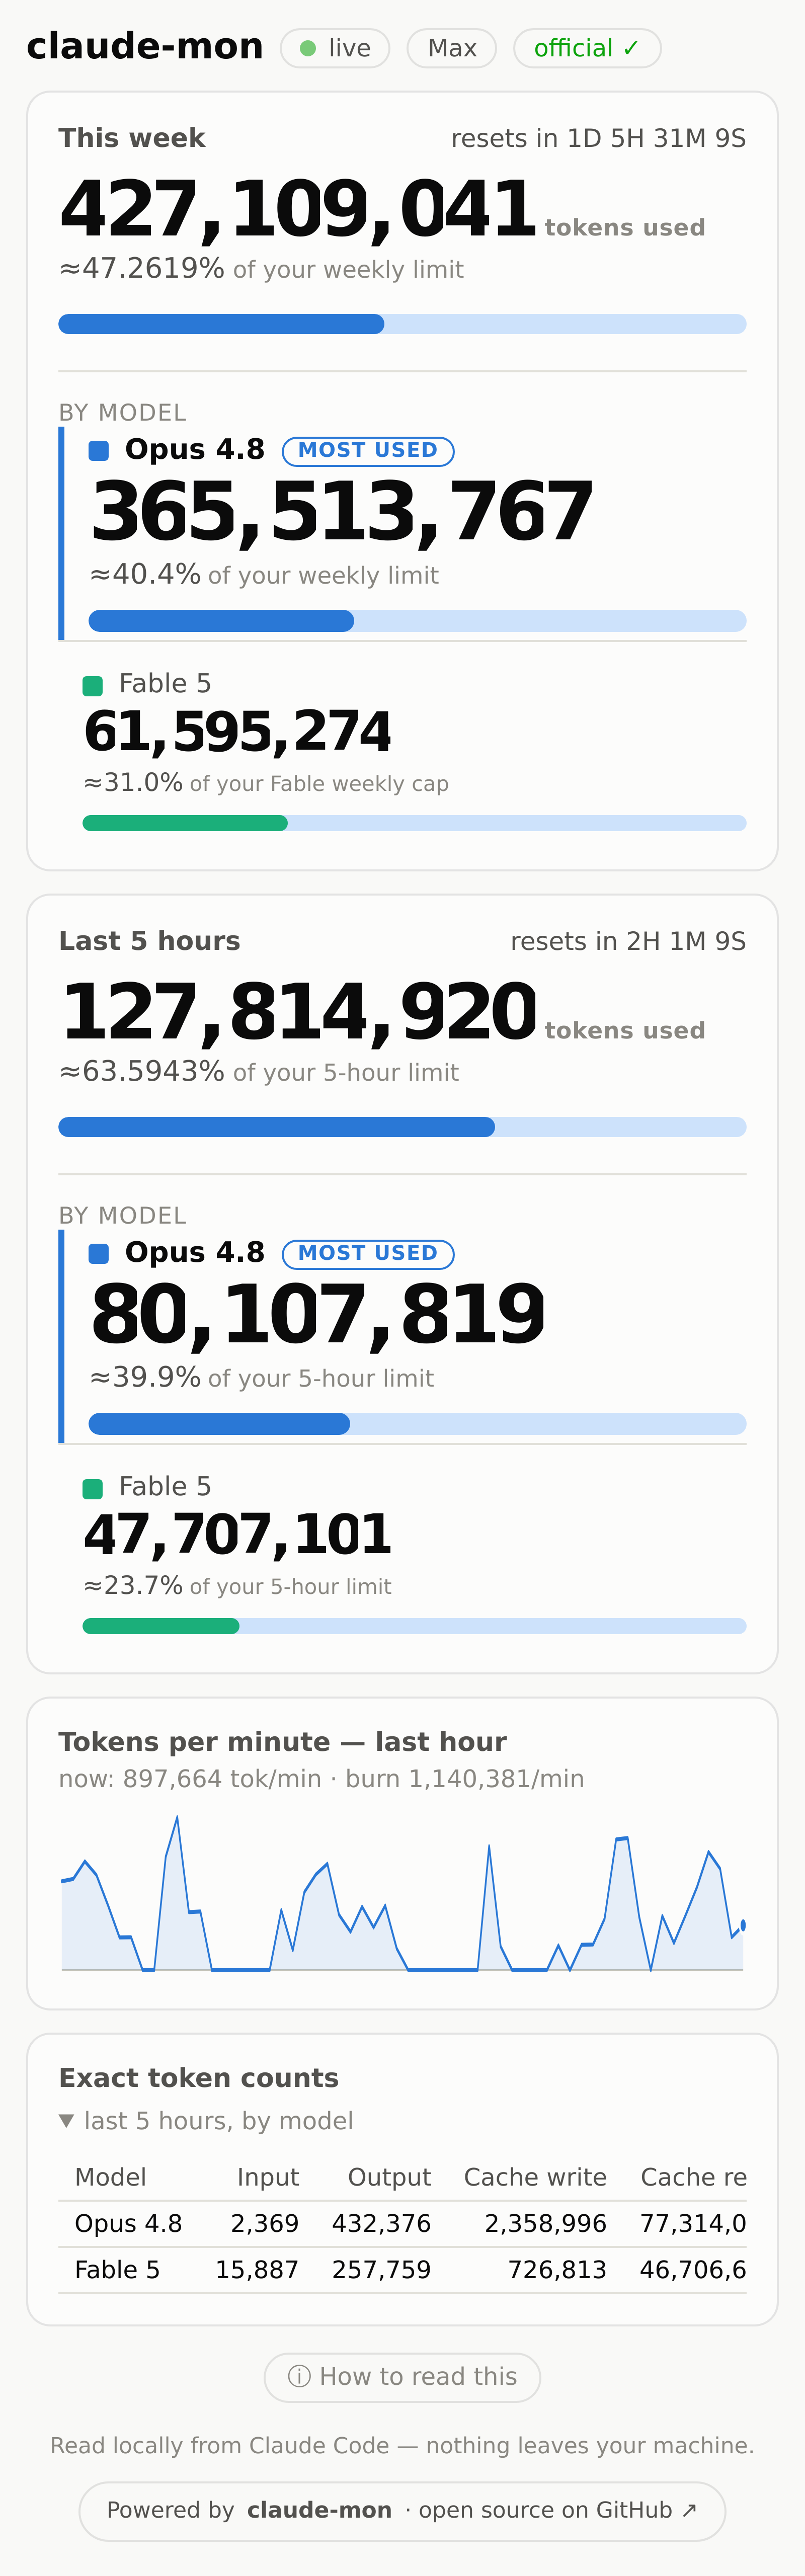
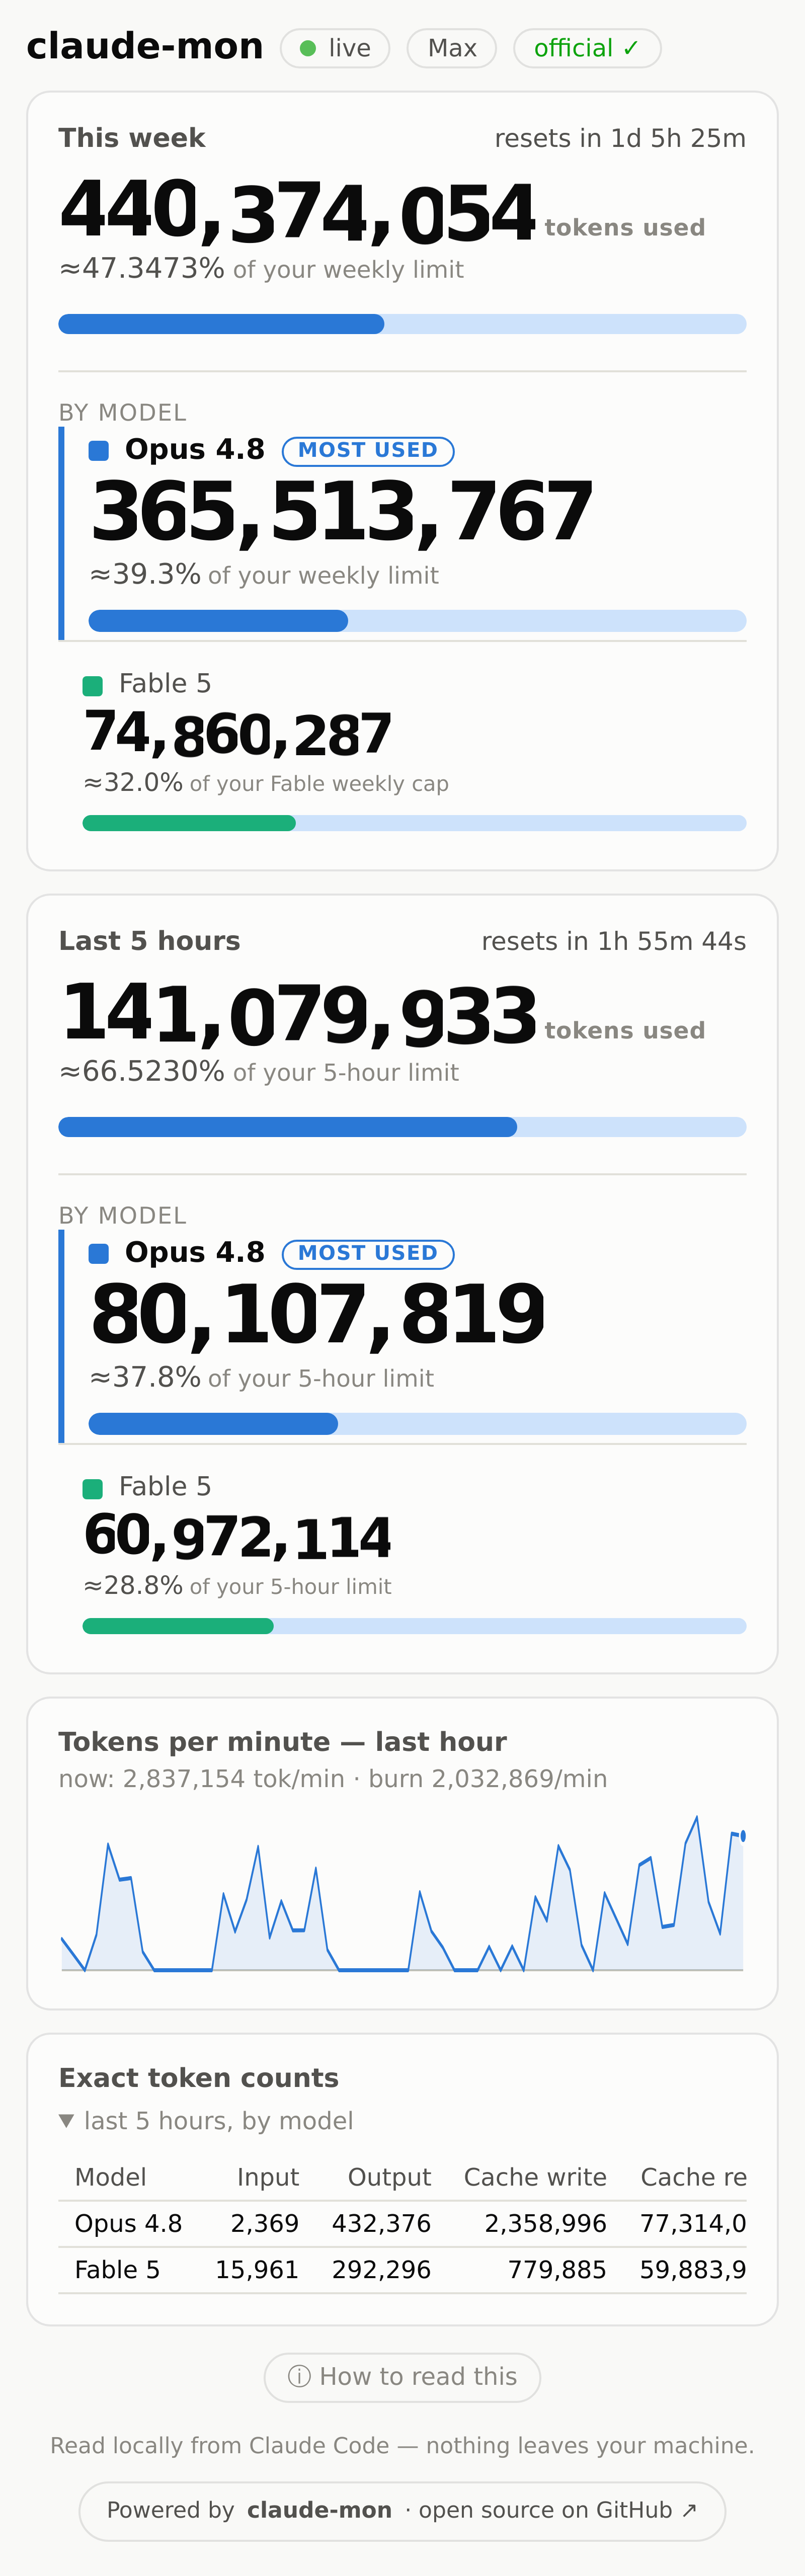
Timer format: lowercase units, max three components (drop seconds when days show)
"resets in 1d 5h 26m" / "resets in 2h 5m 20s" / "resets in 10m 5s".

Claude-Session: https://claude.ai/code/session_01XbNfyBsCw2YkS5ZYWFRxGC

diff --git a/index.html b/index.html
@@ -362,19 +362,20 @@ function frame(t){
   for(const k in st5h.ods) st5h.ods[k].od.tick(ease);
   for(const k in stWk.ods) stWk.ods[k].od.tick(ease);
 }
-// One consistent format everywhere: D H M S, largest non-zero unit first,
-// always down to seconds — e.g. "resets in 1D 6H 23M 12S", "resets in 2H 5M 20S".
+// One consistent format everywhere: largest non-zero unit first, at most three
+// units — so with days present the seconds drop off.
+// e.g. "resets in 1d 6h 23m", "resets in 2h 5m 20s", "resets in 10m 5s".
 function fmtCountdown(iso){
   if(!iso) return "";
   const r=(new Date(iso)-Date.now())/1000;
   if(r<=0) return "resetting…";
   const d=Math.floor(r/86400), h=Math.floor(r%86400/3600), m=Math.floor(r%3600/60), s=Math.floor(r%60);
   const parts=[];
-  if(d>0) parts.push(d+"D");
-  if(h>0||parts.length) parts.push(h+"H");
-  if(m>0||parts.length) parts.push(m+"M");
-  parts.push(s+"S");
-  return "resets in "+parts.join(" ");
+  if(d>0) parts.push(d+"d");
+  if(h>0||parts.length) parts.push(h+"h");
+  if(m>0||parts.length) parts.push(m+"m");
+  parts.push(s+"s");
+  return "resets in "+parts.slice(0,3).join(" ");
 }
 function updateCountdowns(){
   const off=snap.official||{}, week=snap.week||{};